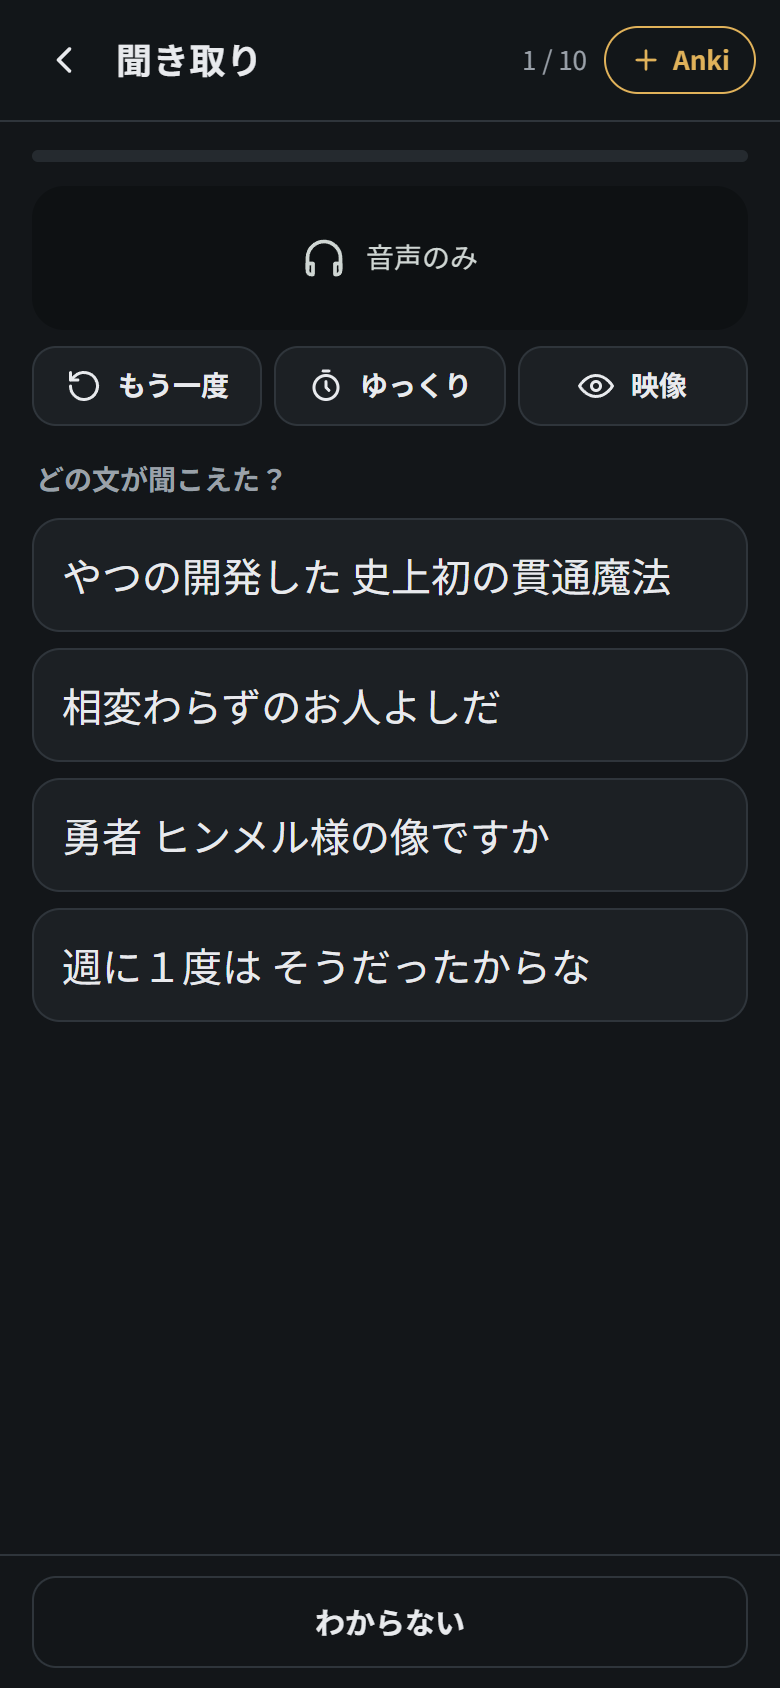
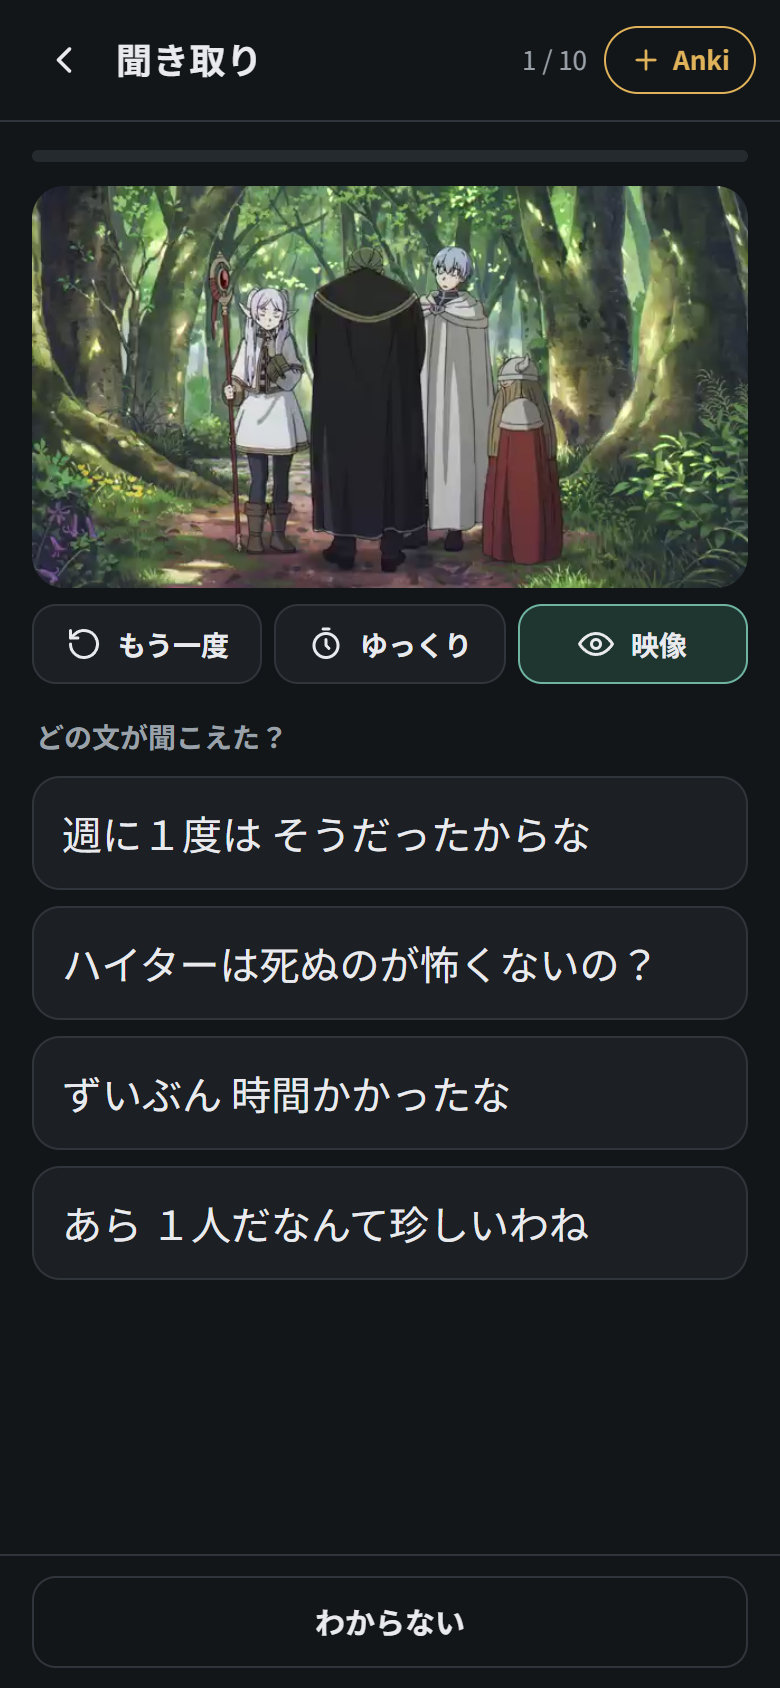
Show video frames and episode thumbnails in README screenshots

diff --git a/README.md b/README.md
@@ -375,7 +375,7 @@ Then rebuild your packs with `--rehacer` so the new patterns are detected in the
 
 - The app has no backend. Nothing leaves your device, with three exceptions: the optional speech recognition used for the shadowing pronunciation score (the browser's own service), IMABI links when you open them, and AnkiConnect, which stays on the same phone.
 - **The repository contains no anime or audiobook content.** `paquetes/` is excluded in `.gitignore`. Only process media you own, and don't publish the generated packs, since they contain copyrighted clips and subtitles.
-- The screenshots in this README were taken in audio-only mode, with no video frames.
+- The screenshots in this README show a few frames and subtitle lines from *Frieren: Beyond Journey's End* (葬送のフリーレン) purely to illustrate how the app works. They are © their respective owners.
 
 ## Credits
 
